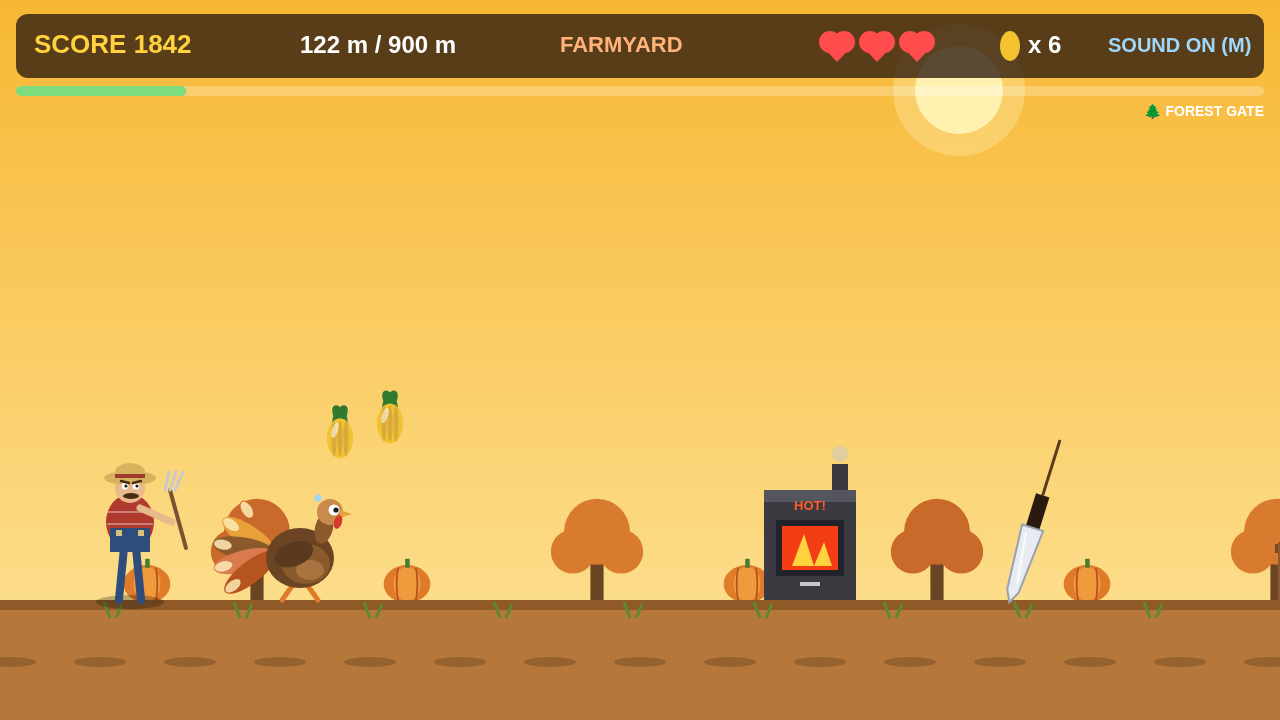
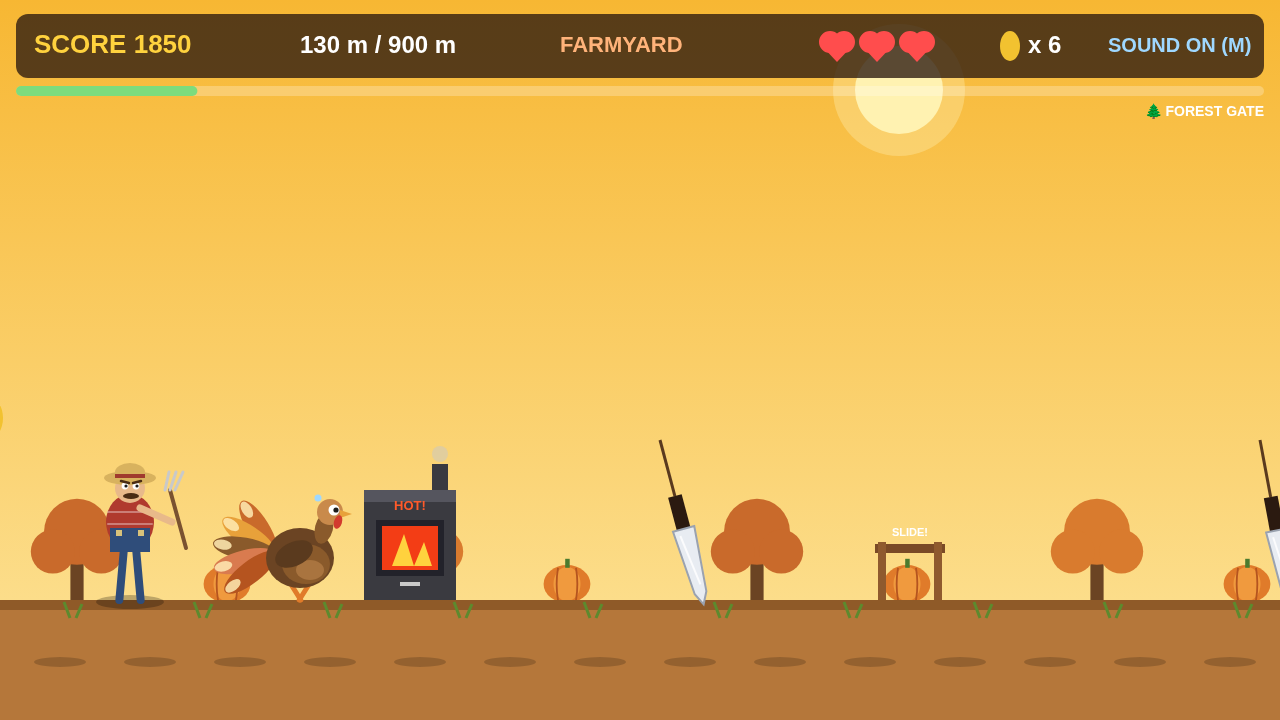
Fix: richer kitchen mid-ground; farmer cuts corners to intercept
Kitchen (stages.js): terracotta accent tiles, gingham curtains, wall
clock (5 o'clock), hanging rail with copper pot/skillet/ladle, shelf
with preserve jars + herb plant, garlic braids + chili strings. All in
the warm palette, clear of ovens/knives/turkey lane; hazards untouched.

Farmer (farmer.js + main.js): intercept pathing replaces gap-drift.
The farmer now cuts corners toward a point ahead of the turkey: extra
closing speed while the turkey is airborne, sliding, or in landing
squash, with a quadratic taper so cuts fade as he nears — cuts alone
never catch a clean run, the gap settles where corn/sprinting rebuild
it. closing flag leans him forward while cutting a corner.

main.ts: dossier self-check — rebuilds the dossier from the written
output dir and requires byte-identical output (reproducibility guard).

Verified headless (0 console / 0 page errors): idle turkey caught at
38 m; good play clean 300+ m, gap recovers after isolated hits,
sprinting pins the gap at max; both end screens render (caught via
live play, escaped via staging).

diff --git a/game/src/stages.js b/game/src/stages.js
@@ -42,6 +42,80 @@ function drawTree(ctx, x, y, s, trunk, leaf) {
   ctx.beginPath(); ctx.arc(x + 22 * s, y - 44 * s, 20 * s, 0, Math.PI * 2); ctx.fill();
 }
 
+function drawCurtain(ctx, x, y, w, h) {
+  // Gingham curtain: red panels with cream stripes and a darker hem.
+  ctx.fillStyle = '#a03a2e';
+  ctx.fillRect(x, y, w, h);
+  ctx.fillStyle = 'rgba(247,232,200,0.8)';
+  for (let sx = x + 9; sx < x + w - 5; sx += 20) ctx.fillRect(sx, y, 6, h);
+  ctx.fillStyle = '#7e2c22';
+  ctx.fillRect(x, y + h - 6, w, 6);
+}
+
+function drawWallClock(ctx, x, y, r) {
+  // A round kitchen clock: cream face, brown rim, twelve ticks, hands on five.
+  ctx.fillStyle = '#7a4a26';
+  ctx.beginPath(); ctx.arc(x, y, r + 5, 0, Math.PI * 2); ctx.fill();
+  ctx.fillStyle = '#f7e8c8';
+  ctx.beginPath(); ctx.arc(x, y, r, 0, Math.PI * 2); ctx.fill();
+  ctx.fillStyle = '#3a2a1a';
+  for (let i = 0; i < 12; i++) {
+    const a = (i / 12) * Math.PI * 2;
+    ctx.beginPath(); ctx.arc(x + Math.sin(a) * (r - 6), y - Math.cos(a) * (r - 6), i % 3 === 0 ? 3 : 1.8, 0, Math.PI * 2); ctx.fill();
+  }
+  // Five o'clock — dinner time. Hour hand to the 5, minute hand to the 12.
+  ctx.strokeStyle = '#3a2a1a'; ctx.lineWidth = 4; ctx.lineCap = 'round';
+  ctx.beginPath(); ctx.moveTo(x, y); ctx.lineTo(x + Math.sin(5 * Math.PI / 6) * (r - 14), y - Math.cos(5 * Math.PI / 6) * (r - 14)); ctx.stroke();
+  ctx.lineWidth = 3;
+  ctx.beginPath(); ctx.moveTo(x, y); ctx.lineTo(x, y - (r - 10)); ctx.stroke();
+  ctx.fillStyle = '#a03a2e';
+  ctx.beginPath(); ctx.arc(x, y, 3.5, 0, Math.PI * 2); ctx.fill();
+}
+
+function drawCopperPot(ctx, x, y) {
+  // A copper pot hanging from its hook: round body, highlight, side handles.
+  ctx.strokeStyle = '#5a3a1e'; ctx.lineWidth = 3;
+  ctx.beginPath(); ctx.moveTo(x, y - 14); ctx.lineTo(x, y); ctx.stroke();
+  ctx.fillStyle = '#b87333';
+  ctx.beginPath(); ctx.arc(x, y + 16, 20, 0, Math.PI * 2); ctx.fill();
+  ctx.fillStyle = '#d89a4e';
+  ctx.beginPath(); ctx.arc(x - 6, y + 10, 8, 0, Math.PI * 2); ctx.fill();
+  ctx.fillStyle = '#8a5a2b';
+  ctx.fillRect(x - 28, y + 10, 8, 5); ctx.fillRect(x + 20, y + 10, 8, 5);
+}
+
+function drawSkillet(ctx, x, y) {
+  // A flat iron skillet on its hook, handle sticking out to the side.
+  ctx.strokeStyle = '#5a3a1e'; ctx.lineWidth = 3;
+  ctx.beginPath(); ctx.moveTo(x, y - 14); ctx.lineTo(x, y); ctx.stroke();
+  ctx.fillStyle = '#3a3a40';
+  ctx.beginPath(); ctx.arc(x, y + 18, 19, 0, Math.PI * 2); ctx.fill();
+  ctx.fillStyle = '#55555e';
+  ctx.beginPath(); ctx.arc(x, y + 18, 13, 0, Math.PI * 2); ctx.fill();
+  ctx.fillStyle = '#3a3a40';
+  ctx.fillRect(x + 16, y + 14, 26, 7);
+}
+
+function drawLadle(ctx, x, y) {
+  // A ladle: long handle down to a small shining bowl.
+  ctx.strokeStyle = '#5a3a1e'; ctx.lineWidth = 3;
+  ctx.beginPath(); ctx.moveTo(x, y - 14); ctx.lineTo(x, y + 22); ctx.stroke();
+  ctx.fillStyle = '#c9c9c9';
+  ctx.beginPath(); ctx.arc(x, y + 30, 9, 0, Math.PI * 2); ctx.fill();
+  ctx.fillStyle = '#8a8a92';
+  ctx.beginPath(); ctx.arc(x, y + 30, 5, 0, Math.PI * 2); ctx.fill();
+}
+
+function drawJar(ctx, x, baseY, color) {
+  // A squat preserve jar with a wooden lid, sitting on the shelf (baseY is the shelf top).
+  ctx.fillStyle = '#8a5a2b';
+  ctx.fillRect(x - 9, baseY - 40, 18, 6);
+  ctx.fillStyle = color;
+  ctx.beginPath(); ctx.ellipse(x, baseY - 20, 12, 20, 0, 0, Math.PI * 2); ctx.fill();
+  ctx.fillStyle = 'rgba(255,255,255,0.35)';
+  ctx.beginPath(); ctx.ellipse(x - 5, baseY - 26, 3, 7, 0, 0, Math.PI * 2); ctx.fill();
+}
+
 export function drawStageBackground(ctx, stageIndex, scrollPx, time) {
   const stage = STAGES[stageIndex];
   const grad = ctx.createLinearGradient(0, 0, 0, GROUND_Y);
@@ -104,6 +178,13 @@ export function drawStageBackground(ctx, stageIndex, scrollPx, time) {
         if ((x + y) % 2 === 0) ctx.fillRect(x * tile - (mid % tile), y * tile, tile, tile);
       }
     }
+    // A few terracotta accent tiles break the checkerboard up.
+    ctx.fillStyle = 'rgba(120,40,20,0.14)';
+    for (let y = 0; y < 5; y++) {
+      for (let x = 0; x < 19; x++) {
+        if ((x * 5 + y * 3) % 7 === 0) ctx.fillRect(x * tile - (mid % tile) + 8, y * tile + 8, tile - 16, tile - 16);
+      }
+    }
     ctx.fillStyle = '#f7e8c8';
     ctx.fillRect(880, 90, 220, 170);
     ctx.fillStyle = '#2b4d6e';
@@ -112,12 +193,59 @@ export function drawStageBackground(ctx, stageIndex, scrollPx, time) {
     ctx.beginPath(); ctx.arc(1030, 150, 26, 0, Math.PI * 2); ctx.fill();
     ctx.fillStyle = '#7a4a26';
     ctx.fillRect(986, 240, 8, 20); ctx.fillRect(1076, 240, 8, 20);
+    // Gingham curtains frame the window, and the wall clock reads five o'clock.
+    drawCurtain(ctx, 866, 84, 46, 182);
+    drawCurtain(ctx, 1068, 84, 46, 182);
+    drawWallClock(ctx, 430, 104, 32);
     for (let i = 0; i < 4; i++) {
       const px = ((i * 330 - mid) % 1320 + 1320) % 1320 - 20;
       ctx.fillStyle = '#3a3a40';
       ctx.beginPath(); ctx.arc(px, 300, 26, 0, Math.PI * 2); ctx.fill();
       ctx.fillStyle = '#55555e';
       ctx.beginPath(); ctx.arc(px, 300, 18, 0, Math.PI * 2); ctx.fill();
+    }
+    // A hanging rail: copper pots, a skillet and a ladle, drifting past.
+    for (let i = 0; i < 5; i++) {
+      const rx = ((i * 300 - mid) % 1500 + 1500) % 1500 - 60;
+      ctx.fillStyle = '#4a2c14';
+      ctx.fillRect(rx, 336, 300, 7);
+      const hx = rx + 150;
+      if (i % 3 === 0) drawCopperPot(ctx, hx, 343);
+      else if (i % 3 === 1) drawSkillet(ctx, hx, 343);
+      else drawLadle(ctx, hx, 343);
+    }
+    // A wooden shelf with preserve jars and a little herb plant.
+    for (let i = 0; i < 3; i++) {
+      const sx = ((i * 460 - mid) % 1380 + 1380) % 1380 - 80;
+      ctx.fillStyle = '#7a4a26';
+      ctx.fillRect(sx, 468, 170, 10);
+      drawJar(ctx, sx + 26, 468, '#d88a2e');
+      drawJar(ctx, sx + 76, 468, '#6a8a3a');
+      drawJar(ctx, sx + 126, 468, '#e8dcc0');
+      if (i % 2 === 0) {
+        ctx.fillStyle = '#b5541f';
+        ctx.beginPath(); ctx.ellipse(sx + 156, 458, 9, 10, 0, 0, Math.PI * 2); ctx.fill();
+        ctx.fillStyle = '#4a7a2e';
+        ctx.beginPath(); ctx.ellipse(sx + 150, 444, 5, 10, -0.4, 0, 0, Math.PI * 2); ctx.fill();
+        ctx.beginPath(); ctx.ellipse(sx + 162, 444, 5, 10, 0.4, 0, 0, Math.PI * 2); ctx.fill();
+      }
+    }
+    // Dried garlic braids and chili strings on the far wall.
+    for (let i = 0; i < 3; i++) {
+      const gx = ((i * 520 - far) % 1560 + 1560) % 1560 - 40;
+      ctx.strokeStyle = '#8a7a5a'; ctx.lineWidth = 2;
+      ctx.beginPath(); ctx.moveTo(gx, 350); ctx.lineTo(gx, 452); ctx.stroke();
+      ctx.fillStyle = '#f2ead8';
+      for (let j = 0; j < 4; j++) {
+        ctx.beginPath(); ctx.ellipse(gx, 366 + j * 24, 9, 12, 0, 0, Math.PI * 2); ctx.fill();
+      }
+      const cx = gx + 34;
+      ctx.strokeStyle = '#8a7a5a';
+      ctx.beginPath(); ctx.moveTo(cx, 350); ctx.lineTo(cx, 440); ctx.stroke();
+      ctx.fillStyle = '#b03a2e';
+      for (let j = 0; j < 4; j++) {
+        ctx.beginPath(); ctx.ellipse(cx, 366 + j * 22, 5, 10, 0.25, 0, Math.PI * 2); ctx.fill();
+      }
     }
     // A row of recipe notes pinned to the wall.
     ctx.fillStyle = '#fff8dc';

diff --git a/game/src/farmer.js b/game/src/farmer.js
@@ -2,23 +2,57 @@
 // closing in whenever the turkey stumbles and falling back when it runs clean.
 // His mood is visible at a glance: calm walk far away, red-faced sprint when
 // close, and a triumphant grab when he catches the turkey.
+//
+// He runs an INTERCEPT, not a drift: he aims at where the turkey will be —
+// the landing spot of a jump, the far side of a fence — and runs the short
+// way there. The turkey's jump arc is longer than his straight run under it,
+// the slide ducks under a rail he steps over, and a landing costs the turkey
+// a beat: each is a corner he cuts. His closing tapers as he nears the
+// turkey (he cannot sprint through the last few steps), so cuts alone never
+// catch a clean run — only stumbles and hits let him finish the job.
+import { GROUND_Y, GAP_MAX, GAP_CAUGHT } from './config.js';
+
+// How fast the farmer closes the gap (px/s) while the turkey takes the long
+// way round. Small on purpose: the gap is also the turkey's safety margin,
+// and a clean run must still escape — the autoplay traces in the repo's
+// verification runs are what these numbers were tuned against.
+const AIR_CUT = 4; // turkey airborne: farmer runs straight under the arc
+const SLIDE_CUT = 3; // turkey sliding: farmer steps over the low fence
+const STUMBLE_CUT = 3; // just landed: the turkey loses a beat
+
 export function createFarmer() {
-  return { gap: 220, runPhase: 0, lunge: 0, grabbed: false };
+  return { gap: 220, runPhase: 0, lunge: 0, grabbed: false, closing: false };
 }
 
 export function farmerX(farmer, turkeyX) {
   return turkeyX - farmer.gap;
 }
 
-// The farmer closes when the turkey is slow or stumbles, and drops back when
-// the turkey sprints. Returns 'close' while he is near enough to threaten.
-export function updateFarmer(farmer, dt, playerSpeed, baseSpeed) {
+// The farmer matches the turkey's pace on open ground, so the gap only moves
+// when the turkey sprints, dawdles, or takes the long way round. Returns
+// 'close' while he is near enough to threaten.
+export function updateFarmer(farmer, dt, playerSpeed, baseSpeed, turkey) {
   farmer.runPhase += dt * (7 + playerSpeed / 55);
   if (farmer.lunge > 0) farmer.lunge = Math.max(0, farmer.lunge - dt * 2.2);
-  const drift = (playerSpeed - baseSpeed) * 0.45;
+  const air = turkey.y < GROUND_Y;
+  const sliding = turkey.sliding > 0;
+  const stumbling = turkey.squash > 0.45;
+  let cut = 0;
+  if (air) cut += AIR_CUT;
+  if (sliding) cut += SLIDE_CUT;
+  if (stumbling) cut += STUMBLE_CUT;
+  farmer.closing = cut > 0;
+  // Taper (quadratic): the closer he already is, the less each cut gains
+  // him — he cannot sprint through the last few steps, so cuts alone never
+  // catch a clean run, and the gap settles where corn and sprinting can
+  // rebuild it above one hit's worth. Only stumbles and hits let him
+  // finish the job.
+  const t = Math.max(0.1, Math.min(1, (farmer.gap - GAP_CAUGHT) / (GAP_MAX - GAP_CAUGHT)));
+  const taper = t * t;
+  const drift = (playerSpeed - baseSpeed) * 0.45 - cut * taper;
   farmer.gap += drift * dt;
-  if (farmer.gap > 280) farmer.gap = 280;
-  if (farmer.gap < 34) farmer.gap = 34;
+  if (farmer.gap > GAP_MAX) farmer.gap = GAP_MAX;
+  if (farmer.gap < GAP_CAUGHT) farmer.gap = GAP_CAUGHT;
 }
 
 export function drawFarmer(ctx, farmer, turkeyX, groundY) {
@@ -29,6 +63,8 @@ export function drawFarmer(ctx, farmer, turkeyX, groundY) {
   const legSwing = Math.sin(farmer.runPhase) * 0.8;
   ctx.save();
   ctx.translate(x + lunge, groundY);
+  // Leaning into the chase: while he is cutting a corner he sprints low and forward.
+  if (farmer.closing) ctx.rotate(0.07);
 
   // Shadow.
   ctx.fillStyle = 'rgba(0,0,0,0.25)';

diff --git a/main.ts b/main.ts
@@ -11,7 +11,7 @@
 // The output directory is cleared first, so running the program twice from the
 // same repository writes byte-identical output both times.
 
-import { cpSync, existsSync, mkdirSync, rmSync, writeFileSync } from 'node:fs';
+import { cpSync, existsSync, mkdirSync, readFileSync, rmSync, writeFileSync } from 'node:fs';
 import { join } from 'node:path';
 import { fileURLToPath } from 'node:url';
 import { buildDossier } from './vendor/makefun-game.ts';
@@ -43,13 +43,24 @@ if (existsSync(join(repoRoot, 'screenshots'))) {
 // screenshots or one over 256 KiB; more than 993 files in game/ or 48 MiB of
 // game files in all, or a path under game/ over 1000 bytes: game/ counts
 // beside /output's own 1000-entry cap, its screenshots/ and dossier.json).
-writeFileSync(
-  join(outDir, 'dossier.json'),
-  buildDossier(outDir, {
-    text_max_bytes: 163840,
-    screenshots: { max: 4, max_bytes: 262144 },
-    game_max_files: 993,
-    game_max_bytes: 50331648,
-    game_path_max_bytes: 1000,
-  }),
-);
+const dossierCaps = {
+  text_max_bytes: 163840,
+  screenshots: { max: 4, max_bytes: 262144 },
+  game_max_files: 993,
+  game_max_bytes: 50331648,
+  game_path_max_bytes: 1000,
+};
+const dossier = buildDossier(outDir, dossierCaps);
+writeFileSync(join(outDir, 'dossier.json'), dossier);
+
+// Self-check: buildDossier must be a pure function of the output
+// directory's contents (game/ + screenshots/), so rebuilding it from the
+// written directory has to reproduce the exact bytes just written. If it
+// does not, the hand-in is not reproducible across the grader's two runs —
+// fail loudly here instead of handing in a dossier the second run would
+// not reproduce.
+const rebuilt = buildDossier(outDir, dossierCaps);
+const written = readFileSync(join(outDir, 'dossier.json'));
+if (rebuilt.length !== written.length || !rebuilt.every((b, i) => b === written[i])) {
+  throw new Error('dossier self-check failed: rebuilt dossier differs from the written one');
+}

diff --git a/game/src/main.js b/game/src/main.js
@@ -183,7 +183,7 @@ function updatePlaying(dt) {
   if (state.flash > 0) state.flash = Math.max(0, state.flash - dt * 1.6);
 
   updateTurkey(turkey, dt, state.speed);
-  updateFarmer(farmer, dt, state.speed, stage.baseSpeed);
+  updateFarmer(farmer, dt, state.speed, stage.baseSpeed, turkey);
   state.farmerGap = farmer.gap;
 
   // Spawn ahead of the turkey.
@@ -352,6 +352,13 @@ window.__turkeyGame = {
   forceCaught: () => { if (state.screen === 'playing') endRun(false); },
   forceEscaped: () => { if (state.screen === 'playing') endRun(true); },
   setDistance: (m) => { state.distanceM = m; state.scrollPx = m * PX_PER_METRE; },
+  get hazards() {
+    // Read-only, for playtests: the hazards still ahead, in screen pixels.
+    return hazards.filter((h) => !h.passed).map((h) => ({ kind: h.kind, screenX: Math.round(h.x - state.scrollPx), w: h.w }));
+  },
+  get turkey() {
+    return { y: Math.round(turkey.y), sliding: turkey.sliding > 0, jumps: turkey.jumps };
+  },
 };
 
 let last = performance.now();
